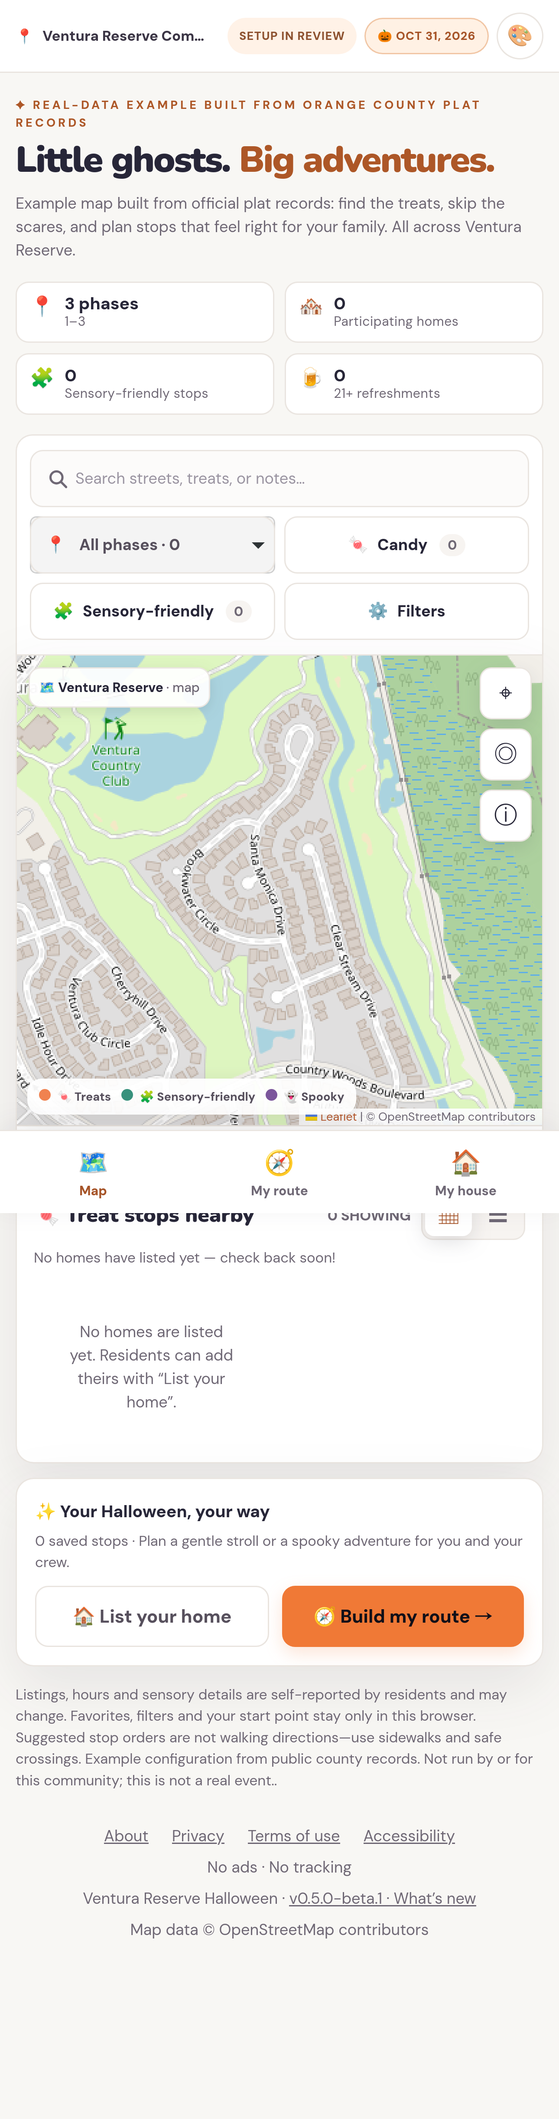
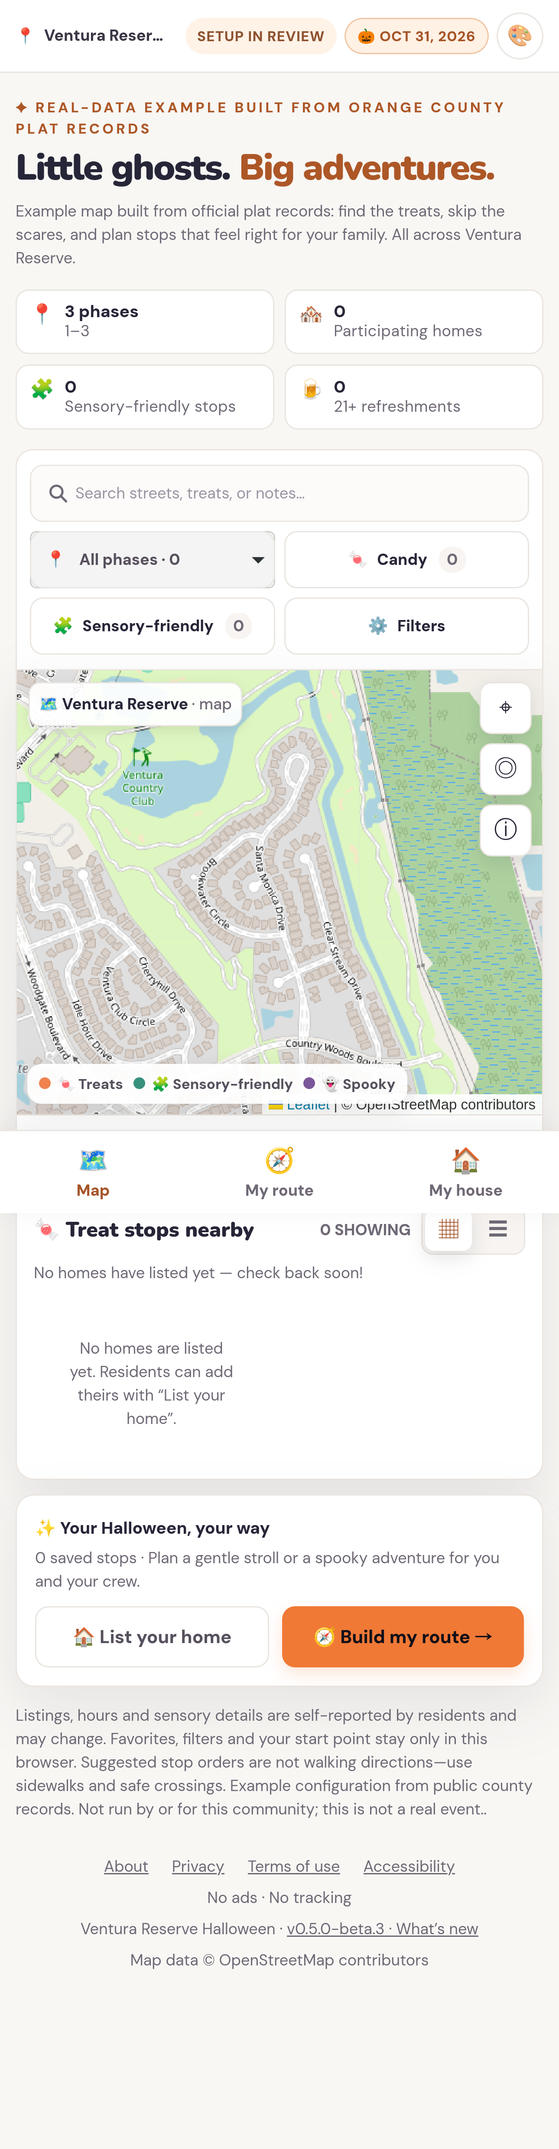
perf: gzip, non-blocking map styles, OPcache preload, tunable PHP-FPM, legible text, robots.txt (0.5.0-beta.4)

diff --git a/public/assets/css/app.css b/public/assets/css/app.css
@@ -113,8 +113,8 @@ h1, h2, h3, .brand-name, .big-number { font-family: Nunito, 'DM Sans', system-ui
 .brand-icon.has-logo { background: transparent; transform: none; }
 .brand-icon.has-logo img { transform: none; }
 .brand-name { font-weight: 900; font-size: 17px; line-height: 1.05; letter-spacing: -.5px; }
-.brand-sub { font-size: 10px; color: #b9b9d0; text-transform: uppercase; letter-spacing: 1.9px; margin-top: 4px; font-weight: 800; }
-.nav-title { font-size: 10px; letter-spacing: 1.3px; color: #9294ac; margin: 0 12px 10px; font-weight: 800; }
+.brand-sub { font-size: 12px; color: #b9b9d0; text-transform: uppercase; letter-spacing: 1.9px; margin-top: 4px; font-weight: 800; }
+.nav-title { font-size: 12px; letter-spacing: 1.3px; color: #9294ac; margin: 0 12px 10px; font-weight: 800; }
 .nav { display: flex; flex-direction: column; gap: 7px; }
 .nav a, .nav button { display: flex; gap: 10px; align-items: center; color: #c4c2d4; background: transparent; text-align: left; width: 100%; border-radius: 11px; padding: 12px 10px; font-weight: 800; text-decoration: none; min-height: 48px; white-space: nowrap; }
 .nav a.active, .nav a:hover, .nav button:hover, .nav button.active { background: #39364e; color: #fff; }
@@ -125,7 +125,7 @@ h1, h2, h3, .brand-name, .big-number { font-family: Nunito, 'DM Sans', system-ui
 .side-panel b { display: block; font-size: 12px; margin: 10px 0 7px; }
 .side-panel p { font-size: 12px; color: #c4c1d1; }
 .side-action { margin-top: 12px; border-radius: 9px; width: 100%; background: #f9b373; font-weight: 800; color: #342839; padding: 10px; min-height: 40px; }
-.side-fine { font-size: 10px; color: #9997ae; margin: 12px 7px 0; }
+.side-fine { font-size: 12px; color: #9997ae; margin: 12px 7px 0; }
 .side-fine a { color: #c9c6dc; }
 .main { flex: 1; min-width: 0; }
 .topline { height: 68px; background: var(--surface); border-bottom: 1px solid var(--border); display: flex; align-items: center; justify-content: space-between; padding: 0 38px; gap: 12px; }
@@ -137,19 +137,19 @@ a.crumb:hover strong { color: var(--link); }
 .crumb-logo { width: 28px; height: 28px; object-fit: contain; flex-shrink: 0; }
 .crumb-name { display: inline-flex; flex-direction: column; line-height: 1.15; min-width: 0; }
 .crumb-name strong { overflow: hidden; text-overflow: ellipsis; }
-.crumb-sub { font-size: 10px; font-weight: 700; color: var(--muted); letter-spacing: .2px; }
+.crumb-sub { font-size: 12px; font-weight: 700; color: var(--muted); letter-spacing: .2px; }
 .topright { display: flex; gap: 10px; align-items: center; flex-shrink: 0; }
 .event-pill { text-decoration: none; }
 .demo-pill, .event-pill, .top-add { height: 32px; display: inline-flex; align-items: center; padding-top: 0; padding-bottom: 0; }
-.event-pill { background: var(--warm); color: var(--warm-text); border: 1px solid var(--warm-border); font-size: 10px; font-weight: 900; letter-spacing: .7px; padding: 8px 12px; border-radius: 30px; white-space: nowrap; }
-.demo-pill { background: var(--pill-bg); color: var(--pill-fg); padding: 6px 10px; border-radius: 50px; font-size: 10px; font-weight: 900; letter-spacing: .6px; white-space: nowrap; }
+.event-pill { background: var(--warm); color: var(--warm-text); border: 1px solid var(--warm-border); font-size: 12px; font-weight: 900; letter-spacing: .7px; padding: 8px 12px; border-radius: 30px; white-space: nowrap; }
+.demo-pill { background: var(--pill-bg); color: var(--pill-fg); padding: 6px 10px; border-radius: 50px; font-size: 12px; font-weight: 900; letter-spacing: .6px; white-space: nowrap; }
 .demo-pill.warn { background: var(--notice-bg); color: var(--notice-fg); }
 .top-add { background: var(--inverse-bg); color: var(--surface); border-radius: 9px; padding: 10px 15px; font-size: 12px; font-weight: 900; text-decoration: none; white-space: nowrap; }
 .content { max-width: 1560px; margin: 0 auto; padding: 31px 36px 40px; }
 
 /* ---- Hero + stats --------------------------------------------------------- */
 .intro { display: flex; align-items: stretch; justify-content: space-between; gap: 20px; }
-.eyebrow { font-size: 11px; letter-spacing: 2px; color: #c56b38; color: var(--eyebrow); font-weight: 900; text-transform: uppercase; margin-bottom: 10px; }
+.eyebrow { font-size: 12px; letter-spacing: 2px; color: #c56b38; color: var(--eyebrow); font-weight: 900; text-transform: uppercase; margin-bottom: 10px; }
 .intro h1 { font-size: clamp(27px, 3.5vw, 42px); line-height: 1.15; letter-spacing: -1.7px; font-weight: 900; }
 .intro h1 span { color: var(--brand-text); }
 .intro p { margin-top: 11px; color: var(--muted); font-size: 13px; max-width: 630px; }
@@ -164,7 +164,7 @@ a.crumb:hover strong { color: var(--link); }
 .metric > div { min-width: 0; }
 .metric-icon { font-size: 19px; }
 .metric b { display: block; font-weight: 900; line-height: 1.1; font-size: clamp(14px, 1.25vw, 16px); white-space: nowrap; }
-.metric span { display: block; font-size: 10px; color: var(--muted); letter-spacing: .2px; line-height: 1.3; }
+.metric span { display: block; font-size: 12px; color: var(--muted); letter-spacing: .2px; line-height: 1.3; }
 
 /* ---- Controls ------------------------------------------------------------- */
 .controls { background: var(--surface); padding: 16px 17px; border-radius: 15px 15px 0 0; border: 1px solid var(--line); border-bottom: 0; display: flex; align-items: center; gap: 10px; flex-wrap: wrap; }
@@ -179,26 +179,26 @@ a.crumb:hover strong { color: var(--link); }
 .phase-select { padding: 0 16px; border-radius: 10px; background: var(--surface-2); border: 1px solid var(--border); font-weight: 800; color: var(--text-2); max-width: 170px; height: 44px; }
 .filter-button { display: inline-flex; align-items: center; justify-content: center; gap: 7px; border: 1px solid var(--border); background: var(--surface); border-radius: 10px; padding: 0 15px; font-weight: 800; white-space: nowrap; height: 44px; color: var(--ink); }
 .fi { display: inline-flex; align-items: center; justify-content: center; width: 1.25em; font-size: 1.05em; line-height: 1; flex-shrink: 0; }
-.filter-count { display: inline-flex; align-items: center; justify-content: center; min-width: 20px; height: 20px; padding: 0 6px; border-radius: 10px; background: var(--orange); color: var(--brand-ink); font-size: 11px; font-weight: 900; }
+.filter-count { display: inline-flex; align-items: center; justify-content: center; min-width: 20px; height: 20px; padding: 0 6px; border-radius: 10px; background: var(--orange); color: var(--brand-ink); font-size: 12px; font-weight: 900; }
 /* Teal Pumpkin Project sign for non-food treats: the pumpkin emoji tinted teal. */
 .teal-pumpkin { display: inline-block; filter: hue-rotate(150deg) saturate(1.3); }
-.fcount { margin-left: 2px; min-width: 20px; padding: 1px 6px; border-radius: 9px; background: var(--surface-3); color: var(--muted); font-size: 10px; font-weight: 900; text-align: center; font-variant-numeric: tabular-nums; }
+.fcount { margin-left: 2px; min-width: 20px; padding: 1px 6px; border-radius: 9px; background: var(--surface-3); color: var(--muted); font-size: 12px; font-weight: 900; text-align: center; font-variant-numeric: tabular-nums; }
 [aria-pressed="true"] > .fcount { background: var(--surface); color: var(--warm-text); }
 .filter-button[aria-pressed="true"] { background: var(--warm); color: var(--warm-text); border-color: var(--warm-border); background: color-mix(in srgb, var(--orange) 10%, var(--surface)); color: color-mix(in srgb, var(--orange) 65%, var(--text)); border-color: color-mix(in srgb, var(--orange) 40%, var(--surface)); }
 .filter-more { padding: 0 17px 15px; background: var(--surface); display: none; gap: 8px; align-items: center; flex-wrap: wrap; border-left: 1px solid var(--line); border-right: 1px solid var(--line); }
 .filter-more.open { display: flex; }
-.mini-filter { display: inline-flex; align-items: center; gap: 5px; font-size: 11px; font-weight: 800; border: 1px solid var(--border); background: var(--surface); padding: 0 12px 0 9px; border-radius: 30px; color: var(--text-2); height: 36px; white-space: nowrap; }
+.mini-filter { display: inline-flex; align-items: center; gap: 5px; font-size: 12px; font-weight: 800; border: 1px solid var(--border); background: var(--surface); padding: 0 12px 0 9px; border-radius: 30px; color: var(--text-2); height: 36px; white-space: nowrap; }
 .mini-filter[aria-pressed="true"] { border-color: var(--warm-border); background: var(--warm); color: var(--warm-text); }
-.time-filter { font-size: 11px; font-weight: 800; color: var(--text-2); display: inline-flex; align-items: center; gap: 6px; }
-.time-filter select { border: 1px solid var(--border); border-radius: 30px; padding: 0 10px; height: 36px; background: var(--surface); color: var(--text-2); font-size: 11px; font-weight: 800; }
-.link-button { background: transparent; color: var(--link); font-size: 11px; font-weight: 900; min-height: 36px; padding: 0 6px; }
+.time-filter { font-size: 12px; font-weight: 800; color: var(--text-2); display: inline-flex; align-items: center; gap: 6px; }
+.time-filter select { border: 1px solid var(--border); border-radius: 30px; padding: 0 10px; height: 36px; background: var(--surface); color: var(--text-2); font-size: 12px; font-weight: 800; }
+.link-button { background: transparent; color: var(--link); font-size: 12px; font-weight: 900; min-height: 36px; padding: 0 6px; }
 
 /* ---- List + map ----------------------------------------------------------- */
 .workarea { display: grid; grid-template-columns: 346px minmax(0, 1fr); height: 620px; border: 1px solid var(--line); border-radius: 0 0 18px 18px; overflow: hidden; background: var(--surface); box-shadow: var(--shadow); }
 .list-pane { border-right: 1px solid var(--border); display: flex; flex-direction: column; min-height: 0; }
 .list-head { padding: 17px 18px 10px; display: flex; justify-content: space-between; align-items: center; gap: 8px 12px; flex-wrap: wrap; }
 .list-head h2 { font-size: 16px; font-weight: 900; }
-.list-head span { color: var(--muted); font-size: 11px; font-weight: 800; text-transform: uppercase; }
+.list-head span { color: var(--muted); font-size: 12px; font-weight: 800; text-transform: uppercase; }
 .list-tools { display: flex; align-items: center; gap: 8px; }
 .view-toggle { display: inline-flex; padding: 2px; gap: 2px; border: 1px solid var(--border); border-radius: 9px; background: var(--surface-3); }
 .view-toggle button { width: 36px; height: 32px; border-radius: 7px; background: transparent; color: var(--muted); font-size: 15px; line-height: 1; }
@@ -212,7 +212,7 @@ a.crumb:hover strong { color: var(--link); }
 .cards.compact .tag { padding: 0; background: none; font-size: 13px; }
 .cards.compact .tag-text { position: absolute; width: 1px; height: 1px; overflow: hidden; clip: rect(0 0 0 0); white-space: nowrap; }
 .cards.compact .card-note { display: none; }
-.list-sub { padding: 0 18px 12px; color: var(--muted); font-size: 11px; }
+.list-sub { padding: 0 18px 12px; color: var(--muted); font-size: 12px; }
 .cards { padding: 0 12px 12px; overflow: auto; flex: 1; list-style: none; margin: 0; }
 .home-card { position: relative; display: flex; gap: 10px; padding: 13px 12px 12px; border: 1px solid var(--border); border-radius: 13px; margin-bottom: 9px; background: var(--surface); transition: border-color .15s, box-shadow .15s; cursor: pointer; }
 .home-card:hover, .home-card.active { border-color: var(--warm-border); box-shadow: 0 5px 15px rgba(202, 131, 84, .10); }
@@ -220,17 +220,17 @@ a.crumb:hover strong { color: var(--link); }
 .card-main { min-width: 0; flex: 1; }
 .card-line { display: flex; justify-content: space-between; align-items: start; gap: 5px; padding-right: 30px; }
 .card-line b { font-weight: 900; font-size: 12px; overflow-wrap: anywhere; }
-.card-meta { font-size: 11px; color: var(--muted); margin: 4px 0 8px; }
-.card-status { display: inline-block; font-size: 10px; font-weight: 900; border-radius: 6px; padding: 2px 6px; margin-left: 4px; }
+.card-meta { font-size: 12px; color: var(--muted); margin: 4px 0 8px; }
+.card-status { display: inline-block; font-size: 12px; font-weight: 900; border-radius: 6px; padding: 2px 6px; margin-left: 4px; }
 .card-status.open { background: var(--tag-candy-bg); color: var(--ok-fg); }
 .card-status.later { background: var(--tag-quiet-bg); color: var(--info-fg); }
 .card-status.paused, .card-status.out { background: var(--tag-drinks-bg); color: var(--paused-fg); }
 .card-status.done { background: var(--done-bg); color: var(--muted); }
-.card-note { font-size: 11px; color: var(--muted); margin-top: 6px; overflow-wrap: anywhere; display: -webkit-box; -webkit-box-orient: vertical; -webkit-line-clamp: 2; line-clamp: 2; overflow: hidden; }
+.card-note { font-size: 12px; color: var(--muted); margin-top: 6px; overflow-wrap: anywhere; display: -webkit-box; -webkit-box-orient: vertical; -webkit-line-clamp: 2; line-clamp: 2; overflow: hidden; }
 .note-icon { display: none; }
 .cards.compact .note-icon { display: inline-flex; }
 .tags { display: flex; gap: 4px; flex-wrap: wrap; }
-.tag { display: inline-flex; align-items: center; padding: 4px 7px; border-radius: 6px; font-size: 9px; font-weight: 900; white-space: nowrap; }
+.tag { display: inline-flex; align-items: center; padding: 4px 7px; border-radius: 6px; font-size: 11px; font-weight: 900; white-space: nowrap; }
 .tag.candy { background: var(--tag-candy-bg); color: var(--tag-candy-fg); }
 .tag.quiet { background: var(--tag-quiet-bg); color: var(--tag-quiet-fg); }
 .tag.spooky { background: var(--tag-spooky-bg); color: var(--tag-spooky-fg); }
@@ -248,28 +248,28 @@ a.crumb:hover strong { color: var(--link); }
 .map-stage { position: relative; flex: 1; min-height: 0; }
 .map { position: absolute; inset: 0; z-index: 1; }
 .map-fallback { position: absolute; inset: 0; display: grid; place-items: center; padding: 24px; text-align: center; color: var(--muted); font-size: 12px; z-index: 0; }
-.map-logo { position: absolute; top: 16px; left: 16px; z-index: 500; padding: 9px 12px; border: 1px solid var(--border); background: var(--glass); border-radius: 9px; box-shadow: 0 3px 10px #343f3820; font-size: 11px; font-weight: 900; }
+.map-logo { position: absolute; top: 16px; left: 16px; z-index: 500; padding: 9px 12px; border: 1px solid var(--border); background: var(--glass); border-radius: 9px; box-shadow: 0 3px 10px #343f3820; font-size: 12px; font-weight: 900; }
 .map-logo span { color: var(--muted); font-weight: 600; }
 .map-tools { position: absolute; top: 15px; right: 15px; display: grid; gap: 7px; z-index: 650; }
 .map-tools button { height: 40px; width: 40px; background: var(--surface); border: 1px solid var(--border); border-radius: 9px; box-shadow: var(--shadow-sm); font-size: 18px; color: var(--text); }
-.map-legend { position: absolute; bottom: 14px; left: 14px; z-index: 500; background: var(--glass); border-radius: 11px; padding: 11px 13px; box-shadow: 0 4px 18px #514f4f25; display: flex; gap: 14px; align-items: center; color: var(--text-2); font-size: 10px; font-weight: 800; }
+.map-legend { position: absolute; bottom: 14px; left: 14px; z-index: 500; background: var(--glass); border-radius: 11px; padding: 11px 13px; box-shadow: 0 4px 18px #514f4f25; display: flex; gap: 14px; align-items: center; color: var(--text-2); font-size: 12px; font-weight: 800; }
 .legend-bullet { height: 9px; width: 9px; border-radius: 50%; display: inline-block; margin-right: 5px; }
 .legend-bullet.candy { background: #f08250; } .legend-bullet.gentle { background: #38917c; } .legend-bullet.spooky { background: #7b569b; }
-.map-footer { position: relative; flex-shrink: 0; background: var(--surface); border-top: 1px solid var(--border); padding: 11px 15px; display: flex; gap: 8px; justify-content: space-between; align-items: center; z-index: 2; font-size: 10px; color: var(--muted); }
+.map-footer { position: relative; flex-shrink: 0; background: var(--surface); border-top: 1px solid var(--border); padding: 11px 15px; display: flex; gap: 8px; justify-content: space-between; align-items: center; z-index: 2; font-size: 12px; color: var(--muted); }
 .map-footer strong { color: var(--text-2); white-space: nowrap; }
 .map-selected { max-height: calc(100% - 28px); overflow: auto; position: absolute; right: 16px; bottom: 14px; z-index: 600; background: var(--surface); border: 1px solid var(--border); border-radius: 13px; padding: 13px 14px; width: 280px; box-shadow: 0 12px 30px #3940343a; display: none; }
 .map-selected.open { display: block; }
 .map-selected .x { float: right; background: none; font-size: 18px; color: var(--muted-2); min-width: 32px; min-height: 32px; }
 .map-selected b { font-size: 14px; }
-.map-selected p { font-size: 11px; color: var(--muted); margin-top: 3px; overflow-wrap: anywhere; }
+.map-selected p { font-size: 12px; color: var(--muted); margin-top: 3px; overflow-wrap: anywhere; }
 .map-selected .tags { margin-top: 9px; }
-.map-selected .primary { margin-top: 11px; padding: 8px 12px; font-size: 11px; }
+.map-selected .primary { margin-top: 11px; padding: 8px 12px; font-size: 12px; }
 .map-selected .link-button { padding-left: 0; }
 .leaflet-container { font: inherit; background: var(--map-bg); }
 .leaflet-tile-pane { filter: var(--tile-filter); }
 .leaflet-control-attribution { background: var(--glass) !important; color: var(--muted); }
 .leaflet-control-attribution a { color: var(--link); }
-.leaflet-control-attribution { font-size: 9px; }
+.leaflet-control-attribution { font-size: 11px; }
 
 /* Leaflet pin (DOM icon): same shape as the prototype pins */
 .pin-icon { background: transparent; border: 0; }
@@ -280,21 +280,21 @@ a.crumb:hover strong { color: var(--link); }
 .pin.dim { opacity: .18; }
 .pin.inactive { filter: grayscale(.7); opacity: .65; }
 .pin-icon.active .pin, .pin-icon:hover .pin { transform: rotate(-45deg) scale(1.14); }
-.pin-number { position: absolute; top: -8px; right: -8px; transform: rotate(45deg); background: var(--night); color: #fff; border-radius: 50%; min-width: 18px; height: 18px; font-size: 10px; font-weight: 900; display: grid; place-items: center; border: 2px solid #fff; }
-.boundary-label { background: var(--glass); border: 0; border-radius: 6px; font-weight: 900; color: var(--muted); font-size: 11px; box-shadow: none; padding: 2px 6px; }
+.pin-number { position: absolute; top: -8px; right: -8px; transform: rotate(45deg); background: var(--night); color: #fff; border-radius: 50%; min-width: 18px; height: 18px; font-size: 12px; font-weight: 900; display: grid; place-items: center; border: 2px solid #fff; }
+.boundary-label { background: var(--glass); border: 0; border-radius: 6px; font-weight: 900; color: var(--muted); font-size: 12px; box-shadow: none; padding: 2px 6px; }
 
 /* ---- Bottom bar ----------------------------------------------------------- */
 .bottom-bar { margin-top: 16px; padding: 15px 17px; border: 1px solid var(--border); border-radius: 14px; background: var(--surface); display: flex; gap: 15px; align-items: center; justify-content: space-between; box-shadow: var(--shadow); }
 .bottom-bar b { font-size: 13px; font-weight: 900; }
-.bottom-bar p { font-size: 11px; color: var(--muted); margin-top: 4px; }
+.bottom-bar p { font-size: 12px; color: var(--muted); margin-top: 4px; }
 .route-btn, .primary { background: #f07b3c; background: var(--orange); border-radius: 10px; color: var(--brand-ink); font-weight: 900; padding: 13px 20px; box-shadow: 0 5px 13px #f07b3c33; min-height: 44px; text-decoration: none; display: inline-flex; align-items: center; justify-content: center; gap: 6px; }
 .primary[disabled], .secondary[disabled] { opacity: .55; cursor: not-allowed; }
 .bottom-actions { display: flex; align-items: center; gap: 10px; }
 .bottom-actions a, .bottom-actions button { white-space: nowrap; }
 .secondary { border: 1px solid var(--border); color: var(--text-2); background: var(--surface); border-radius: 10px; font-weight: 800; padding: 12px 16px; min-height: 44px; text-decoration: none; display: inline-flex; align-items: center; justify-content: center; }
 .danger { border: 1px solid var(--danger-border); color: var(--danger-fg); background: var(--surface); border-radius: 10px; font-weight: 800; padding: 12px 16px; min-height: 44px; }
-.disclaimer { font-size: 11px; color: var(--muted); margin-top: 13px; }
-.footer-version { font-size: 10px; color: var(--muted); margin-top: 8px; }
+.disclaimer { font-size: 12px; color: var(--muted); margin-top: 13px; }
+.footer-version { font-size: 12px; color: var(--muted); margin-top: 8px; }
 
 /* ---- Modals / bottom sheets --------------------------------------------------- */
 .modal-wrap { position: fixed; inset: 0; background: var(--overlay); z-index: 2000; display: none; align-items: center; justify-content: center; padding: 16px; overflow: auto; }
@@ -307,24 +307,24 @@ a.crumb:hover strong { color: var(--link); }
 fieldset { border: 0; padding: 0; margin: 0; min-width: 0; }
 .form-grid { display: grid; grid-template-columns: 1fr 1fr; gap: 12px; }
 .field.full { grid-column: 1 / -1; }
-.field > label, .field > .label { font-size: 11px; font-weight: 900; color: var(--text-2); display: block; margin-bottom: 5px; }
+.field > label, .field > .label { font-size: 12px; font-weight: 900; color: var(--text-2); display: block; margin-bottom: 5px; }
 .field input:not([type=checkbox]):not([type=radio]), .field select, .field textarea { border: 1px solid var(--border); border-radius: 10px; padding: 11px 12px; width: 100%; color: var(--text-2); background: var(--surface); min-height: 44px; }
 /* Controls wrapped in their label (the resident dashboard) keep the field's own typography. */
 .field > label > select, .field > label > textarea, .field > label > input { display: block; margin-top: 5px; font-size: 14px; font-weight: 400; letter-spacing: normal; }
 .field textarea { min-height: 90px; resize: vertical; }
-.field .error { color: var(--danger-fg); font-size: 11px; margin-top: 4px; display: block; }
+.field .error { color: var(--danger-fg); font-size: 12px; margin-top: 4px; display: block; }
 .field input[aria-invalid="true"], .field select[aria-invalid="true"], .field textarea[aria-invalid="true"] { border-color: var(--danger-border-strong); }
 .checks { display: flex; flex-wrap: wrap; gap: 8px; margin-top: 8px; }
-.check-chip { display: inline-flex; align-items: center; gap: 7px; font-size: 11px; font-weight: 800; color: var(--text-2); border: 1px solid var(--border); padding: 8px 11px; border-radius: 9px; cursor: pointer; min-height: 40px; line-height: 1.35; }
+.check-chip { display: inline-flex; align-items: center; gap: 7px; font-size: 12px; font-weight: 800; color: var(--text-2); border: 1px solid var(--border); padding: 8px 11px; border-radius: 9px; cursor: pointer; min-height: 40px; line-height: 1.35; }
 .check-chip input { accent-color: var(--orange); width: 16px; height: 16px; margin: 0; flex-shrink: 0; }
 .check-chip:has(input:checked) { border-color: var(--warm-border); background: var(--warm-soft); }
 .field > label.check-chip { display: inline-flex; margin-bottom: 0; }
-.form-caption { font-size: 10px; color: var(--muted); margin-top: 9px; }
+.form-caption { font-size: 12px; color: var(--muted); margin-top: 9px; }
 .modal-actions { display: flex; justify-content: flex-end; gap: 10px; margin-top: 22px; flex-wrap: wrap; }
 .route-items { display: flex; flex-direction: column; gap: 8px; max-height: 380px; overflow: auto; list-style: none; padding: 0; margin: 14px 0 0; }
-.route-group-title { font-size: 11px; font-weight: 900; letter-spacing: 1px; color: var(--muted); text-transform: uppercase; margin: 10px 0 2px; }
+.route-group-title { font-size: 12px; font-weight: 900; letter-spacing: 1px; color: var(--muted); text-transform: uppercase; margin: 10px 0 2px; }
 .route-item { display: flex; align-items: center; gap: 11px; padding: 12px; background: var(--surface-3); border: 1px solid var(--border); border-radius: 11px; }
-.route-index { border-radius: 50%; background: var(--warm); color: var(--warm-text); display: grid; place-items: center; height: 25px; width: 25px; font-size: 11px; font-weight: 900; flex-shrink: 0; }
+.route-index { border-radius: 50%; background: var(--warm); color: var(--warm-text); display: grid; place-items: center; height: 25px; width: 25px; font-size: 12px; font-weight: 900; flex-shrink: 0; }
 .route-item b { font-size: 12px; }
 .route-text { flex: 1; min-width: 0; }
 .route-move { display: inline-flex; gap: 6px; flex-shrink: 0; }
@@ -335,7 +335,7 @@ fieldset { border: 0; padding: 0; margin: 0; min-width: 0; }
 .route-status { margin: 12px 0 0; font-size: 13px; color: var(--text-2); display: flex; flex-wrap: wrap; align-items: center; gap: 2px 6px; }
 .route-status b { color: var(--text-strong); }
 .route-filters { display: flex; flex-wrap: wrap; align-items: center; gap: 6px; margin-top: 12px; }
-.route-filters .label { font-size: 11px; font-weight: 800; color: var(--muted); text-transform: uppercase; letter-spacing: .4px; margin-right: 2px; }
+.route-filters .label { font-size: 12px; font-weight: 800; color: var(--muted); text-transform: uppercase; letter-spacing: .4px; margin-right: 2px; }
 .route-chip { display: inline-flex; align-items: center; gap: 4px; min-height: 28px; padding: 0 10px; border-radius: 30px; background: var(--warm); color: var(--warm-text); border: 1px solid var(--warm-border); font-size: 12px; font-weight: 800; }
 .route-chip .fi { width: auto; }
 .route-source { display: inline-flex; gap: 2px; padding: 3px; margin-top: 12px; border: 1px solid var(--border); border-radius: 999px; background: var(--surface-3); }
@@ -344,10 +344,10 @@ fieldset { border: 0; padding: 0; margin: 0; min-width: 0; }
 .route-suggest ul { list-style: none; padding: 0; margin: 8px 0 0; display: grid; gap: 8px; }
 .route-suggest li { display: flex; align-items: center; gap: 11px; padding: 10px 12px; border: 1px dashed var(--border); border-radius: 11px; }
 .route-suggest b { font-size: 12px; }
-.route-suggest p { font-size: 10px; color: var(--muted); }
+.route-suggest p { font-size: 12px; color: var(--muted); }
 .route-suggest .add-stop { min-height: 40px; padding: 0 14px; flex-shrink: 0; }
-.route-item p { font-size: 10px; color: var(--muted); }
-.notice { margin: 12px 0; padding: 12px; border-radius: 10px; background: var(--notice-bg); color: var(--notice-fg); font-size: 11px; }
+.route-item p { font-size: 12px; color: var(--muted); }
+.notice { margin: 12px 0; padding: 12px; border-radius: 10px; background: var(--notice-bg); color: var(--notice-fg); font-size: 12px; }
 .notice.info { background: var(--tag-quiet-bg); color: var(--info-fg); }
 .notice.danger { background: var(--danger-bg); color: var(--danger-fg); }
 .success { margin-top: 13px; background: var(--success-bg); padding: 13px; border-radius: 10px; color: var(--success-fg); font-size: 12px; }
@@ -382,10 +382,10 @@ fieldset { border: 0; padding: 0; margin: 0; min-width: 0; }
 .whats-new h2 { font-size: 22px; margin: 4px 0 4px; padding-right: 40px; }
 .release { border-top: 1px solid var(--border); padding: 10px 0; }
 .release summary { cursor: pointer; min-height: 36px; display: flex; align-items: center; gap: 8px; flex-wrap: wrap; font-size: 14px; }
-.release h3 { font-size: 11px; margin: 12px 0 4px; color: var(--muted); text-transform: uppercase; letter-spacing: .5px; }
+.release h3 { font-size: 12px; margin: 12px 0 4px; color: var(--muted); text-transform: uppercase; letter-spacing: .5px; }
 .release ul { margin: 0; padding-left: 18px; font-size: 13px; line-height: 1.45; color: var(--text-2); display: grid; gap: 5px; }
 .release-date { color: var(--muted); font-size: 12px; font-weight: 600; }
-.release-current { font-size: 10px; font-weight: 900; background: var(--warm); color: var(--warm-text); border-radius: 6px; padding: 2px 7px; }
+.release-current { font-size: 12px; font-weight: 900; background: var(--warm); color: var(--warm-text); border-radius: 6px; padding: 2px 7px; }
 .reminders { list-style: none; padding: 0; margin: 8px 0 14px; display: grid; gap: 8px; }
 .reminders li { padding: 10px 12px; border: 1px solid var(--border); border-radius: 11px; background: var(--surface-2); font-size: 14px; line-height: 1.45; color: var(--text-2); }
 .reminders.compact li { padding: 8px 10px; font-size: 12px; }
@@ -424,7 +424,7 @@ fieldset { border: 0; padding: 0; margin: 0; min-width: 0; }
 .appearance .seg { display: flex; gap: 4px; padding: 4px; margin-top: 12px; border: 1px solid var(--border); border-radius: 14px; background: var(--surface-3); }
 .appearance .seg button { flex: 1; min-height: 44px; border-radius: 10px; background: transparent; color: var(--text-2); font-weight: 800; }
 .appearance .seg button[aria-pressed="true"] { background: var(--surface); color: var(--warm-text); box-shadow: var(--shadow-sm); outline: 1px solid var(--warm-border); }
-.pref-heading { font-size: 11px; margin: 18px 0 6px; color: var(--muted); text-transform: uppercase; letter-spacing: .5px; }
+.pref-heading { font-size: 12px; margin: 18px 0 6px; color: var(--muted); text-transform: uppercase; letter-spacing: .5px; }
 .pref-row { display: flex; align-items: center; justify-content: space-between; gap: 14px; min-height: 56px; padding: 8px 0; border-top: 1px solid var(--border); cursor: pointer; }
 .pref-row b { display: block; font-size: 14px; }
 .pref-row small { display: block; font-size: 12px; color: var(--muted); }
@@ -440,7 +440,7 @@ fieldset { border: 0; padding: 0; margin: 0; min-width: 0; }
 #claimOutcome:focus { outline: none; }
 .status-row { display: flex; gap: 8px; flex-wrap: wrap; margin: 12px 0; }
 .status-row button[aria-pressed="true"] { background: var(--warm); color: var(--warm-text); border-color: var(--warm-border); }
-.session-hint { font-size: 11px; color: var(--muted); margin-top: 4px; }
+.session-hint { font-size: 12px; color: var(--muted); margin-top: 4px; }
 
 /* ---- Mobile bottom navigation (hidden on desktop) ------------------------ */
 .mobile-head { display: none; }
@@ -466,30 +466,30 @@ fieldset { border: 0; padding: 0; margin: 0; min-width: 0; }
   .phase-select, .phase-wrap, .filter-button { flex: 1 1 auto; max-width: none; }
   .intro h1 { font-size: 32px; }
   .mobile-bottom { position: fixed; bottom: 0; left: 0; right: 0; display: grid; grid-template-columns: repeat(3, 1fr); height: 64px; background: var(--surface); border-top: 1px solid var(--border); z-index: 1500; box-shadow: 0 -4px 20px #29253213; padding-bottom: env(safe-area-inset-bottom); }
-  .mobile-bottom a, .mobile-bottom button { background: var(--surface); font-size: 10px; color: var(--muted); font-weight: 800; text-decoration: none; display: flex; flex-direction: column; align-items: center; justify-content: center; min-height: 44px; }
+  .mobile-bottom a, .mobile-bottom button { background: var(--surface); font-size: 12px; color: var(--muted); font-weight: 800; text-decoration: none; display: flex; flex-direction: column; align-items: center; justify-content: center; min-height: 44px; }
   .mobile-bottom span { display: block; font-size: 19px; }
   .mobile-bottom .active { color: var(--warm-text); }
 }
 @media (max-width: 660px) {
   body { background: var(--bg); }
   .topline { height: 56px; padding: 0 12px; }
-  .crumb { font-size: 11px; white-space: nowrap; overflow: hidden; text-overflow: ellipsis; }
+  .crumb { font-size: 12px; white-space: nowrap; overflow: hidden; text-overflow: ellipsis; }
   .topright .top-add { display: none; }
   .topright { gap: 6px; }
-  .demo-pill, .event-pill { height: 28px; font-size: 9px; padding: 0 9px; letter-spacing: .4px; }
+  .demo-pill, .event-pill { height: 28px; font-size: 11px; padding: 0 9px; letter-spacing: .4px; }
   .content { padding: 18px 12px 20px; }
-  .eyebrow { font-size: 9px; margin-bottom: 6px; }
+  .eyebrow { font-size: 11px; margin-bottom: 6px; }
   .intro h1 { font-size: 28px; letter-spacing: -1px; }
   .intro p { font-size: 12px; margin-top: 8px; }
   .metrics { display: grid; grid-template-columns: 1fr 1fr; gap: 8px; margin: 15px 0; }
   .metric { padding: 9px 10px; border-radius: 10px; min-width: 0; gap: 8px; align-items: flex-start; }
   .metric-icon { font-size: 15px; line-height: 1.2; }
   .metric b { font-size: 13px; }
-  .metric span { font-size: 10px; }
+  .metric span { font-size: 12px; }
   .controls { border-radius: 13px 13px 0 0; padding: 11px 10px; gap: 7px; }
   .search { flex: 1 1 100%; order: -1; }
   .search input { padding: 10px 10px 10px 34px; font-size: 12px; }
-  .phase-select, .phase-wrap, .filter-button { flex: 1 1 0; min-width: 0; font-size: 11px; padding: 0 8px; max-width: none; }
+  .phase-select, .phase-wrap, .filter-button { flex: 1 1 0; min-width: 0; font-size: 12px; padding: 0 8px; max-width: none; }
   .filter-more { padding: 0 10px 12px; }
   .workarea { display: flex; flex-direction: column; height: auto; overflow: visible; border-radius: 0 0 14px 14px; }
   .map-pane { order: 0; height: 395px; flex-shrink: 0; overflow: hidden; }
@@ -500,12 +500,12 @@ fieldset { border: 0; padding: 0; margin: 0; min-width: 0; }
   .home-card { margin: 0; gap: 6px; padding: 11px 8px; }
   .card-symbol { width: 31px; height: 31px; border-radius: 8px; font-size: 15px; }
   .card-line { flex-wrap: wrap; }
-  .card-line b { font-size: 11px; }
-  .card-meta { font-size: 10px; }
-  .tag { font-size: 9px; }
-  .map-legend { bottom: 8px; left: 8px; gap: 8px; font-size: 9px; padding: 7px 9px; }
-  .map-logo { top: 9px; left: 9px; font-size: 10px; padding: 7px; }
-  .map-footer { font-size: 9px; padding: 10px; }
+  .card-line b { font-size: 12px; }
+  .card-meta { font-size: 12px; }
+  .tag { font-size: 11px; }
+  .map-legend { bottom: 8px; left: 8px; gap: 8px; font-size: 11px; padding: 7px 9px; }
+  .map-logo { top: 9px; left: 9px; font-size: 12px; padding: 7px; }
+  .map-footer { font-size: 11px; padding: 10px; }
   .map-tools { right: 8px; top: 9px; }
   #btnZoomIn, #btnZoomOut { display: none; }
   .map-selected { bottom: 8px; right: 8px; left: 8px; width: auto; }

diff --git a/public/assets/js/home.js b/public/assets/js/home.js
@@ -545,6 +545,15 @@ function routeFromHash() {
   if (map[location.hash]) actions(map[location.hash]);
 }
 
+// Leaflet's stylesheet is only needed for the map, so it loads here instead of blocking the first paint
+// (stylesheets added before the page's load event still delay it, and the map starts on load).
+if (!document.querySelector('link[href="/vendor/leaflet/leaflet.css"]')) {
+  const css = document.createElement('link');
+  css.rel = 'stylesheet';
+  css.href = '/vendor/leaflet/leaflet.css';
+  document.head.append(css);
+}
+
 bind();
 initRegistration({ community: C, onPublishedHint: () => {} });
 render();

diff --git a/CHANGES.md b/CHANGES.md
@@ -280,4 +280,15 @@ so their `commit_ref` reads `consolidated`.
   commit_ref: "v0.5.0-beta.2"
   author: "Lance Sandino"
   timestamp: "2026-10-19T08:45:00Z"
+
+- id: CU-20261019-15
+  type: refactor
+  title: "Performance pass from Lighthouse and PHP-FPM/OPcache review"
+  description: "gzip in nginx; leaflet.css loaded by home.js (not render-blocking) with preconnect/dns-prefetch to the tile origin; 9-11 px text raised to 11-12 px; public/robots.txt. Production image adds php-prod.ini (OPcache 192 MB, interned strings 16 MB, preload of Symfony's generated preload file, JIT off) — verified in PHP-FPM: 914 classes preloaded. PHP-FPM pool sizes come from FPM_* env (defaults unchanged). Upgrade runbook uses --force-recreate so every deploy starts with an empty OPcache (validate_timestamps=0)."
+  impact: low
+  affected_modules: ["docker/nginx/default.conf", "docker/php/php-prod.ini", "docker/php/fpm-pool.conf", "Dockerfile", "compose.yaml", "public/robots.txt", "public/assets/css/app.css", "public/assets/js/home.js", "templates/home/index.html.twig", "docs/runbooks/"]
+  related_tests: ["tests/e2e/specs/*.mjs (68 incl. WebKit; overflow and 44 px targets at all sizes)", "Lighthouse mobile run (local, documented in CHANGELOG)", "php-fpm -tt and preload_statistics in the production image (manual check)"]
+  commit_ref: "v0.5.0-beta.4"
+  author: "Lance Sandino"
+  timestamp: "2026-10-19T19:15:00Z"
 ```

diff --git a/docs/runbooks/deployment.md b/docs/runbooks/deployment.md
@@ -41,6 +41,14 @@ docker compose exec app php bin/console app:admin:grant organizer@example.org
 
 Migrations run automatically on start (`MIGRATE_ON_START=1`). The container refuses to start with a placeholder or short `APP_SECRET`.
 
+### Performance settings (production image)
+
+- **OPcache** is on, never re-checks files, and **preloads** Symfony's hot classes when PHP-FPM starts (`docker/php/php-prod.ini`). Deploys clear it by recreating the containers (see the upgrade runbook).
+- **Composer** autoloading is class-map-authoritative and the Symfony cache is warmed at image build.
+- **PHP-FPM** worker pool: each worker uses about 30–40 MB. Set `FPM_MAX_CHILDREN` to roughly the memory you give PHP divided by 40 MB (default 12 ≈ 512 MB), with `FPM_START_SERVERS`, `FPM_MIN_SPARE` and `FPM_MAX_SPARE` in `.env`; then recreate the `app` container. If the logs show `server reached pm.max_children`, raise it (or add memory).
+- **nginx** gzips text responses and caches fingerprinted scripts and styles for a year.
+- Measure performance on the **production** stack (no `COMPOSE_FILE` dev overlay). The development stack re-checks every PHP file, runs a coverage driver and adds `X-Robots-Tag: noindex`, so it scores lower on Lighthouse by design.
+
 ## 3. Cloudflare Tunnel
 
 Reuse the host's existing `cloudflared` (recommended) and add an ingress rule:

diff --git a/CHANGELOG.md b/CHANGELOG.md
@@ -6,6 +6,14 @@ Engineering change records (with regression-test anchors) live in `CHANGES.md`.
 
 ## [Unreleased]
 
+## [0.5.0-beta.4] - 2026-10-19
+
+### Changed
+- Faster pages: nginx compresses text responses (about 70 % smaller), the map's stylesheet no longer blocks the first paint, and the browser connects to the map-tile server early. Lighthouse (mobile, development stack): Performance 79 → 91.
+- Production PHP preloads Symfony's most-used classes into OPcache when PHP-FPM starts; the PHP-FPM worker pool is set from `.env` (`FPM_MAX_CHILDREN`…). The upgrade runbook recreates containers on every deploy, which is what clears OPcache.
+- Small text is at least 12 px on phones (11 px for tags and badges), so it passes Lighthouse's legibility check.
+- `robots.txt` lets search engines index the public map, About and policy pages but not the API, sign-in, resident or organizer pages.
+
 ## [0.5.0-beta.3] - 2026-10-19
 
 ### Changed

diff --git a/docs/runbooks/upgrade-rollback.md b/docs/runbooks/upgrade-rollback.md
@@ -5,7 +5,9 @@
 1. Read `CHANGELOG.md` for the target version (migration notes, breaking changes).
 2. `bin/backup-now.sh` and copy the dump off the host.
 3. `git fetch --tags && git checkout vX.Y.Z`
-4. `docker compose up -d --build --wait` (migrations run on start).
+4. `docker compose up -d --build --force-recreate --wait` (migrations run on start). Recreating the containers is what clears PHP's OPcache: production never re-checks code files (`opcache.validate_timestamps=0`, fastest), so a new container is the only way new code runs. Never copy files into a running container.
+   - Changed only `.env` or PHP settings? `docker compose up -d --force-recreate app maintenance` does the same without a rebuild.
+   - Check the new version is live: the footer shows it, or `curl -s https://<host>/healthz`.
 5. Check `/healthz`, the public map, organizer sign-in, one listing edit.
 
 ## Rollback
